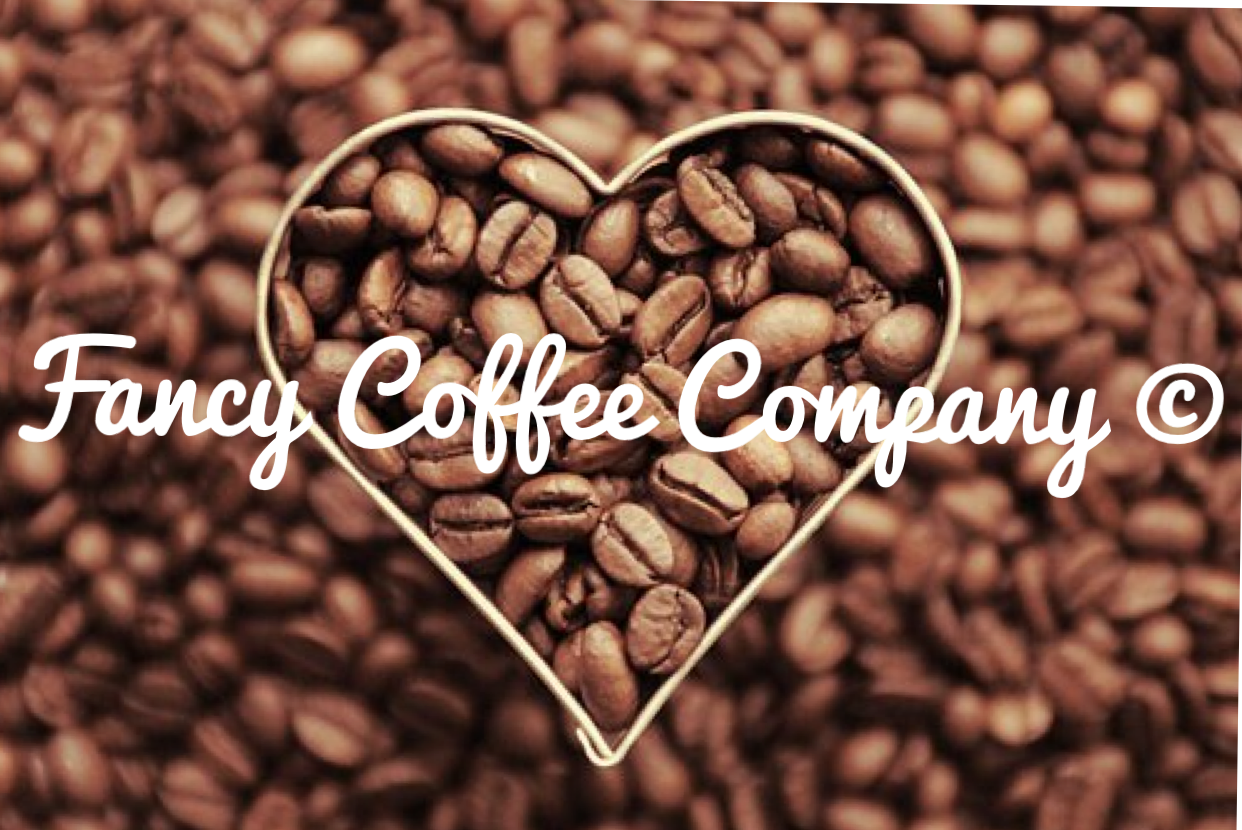
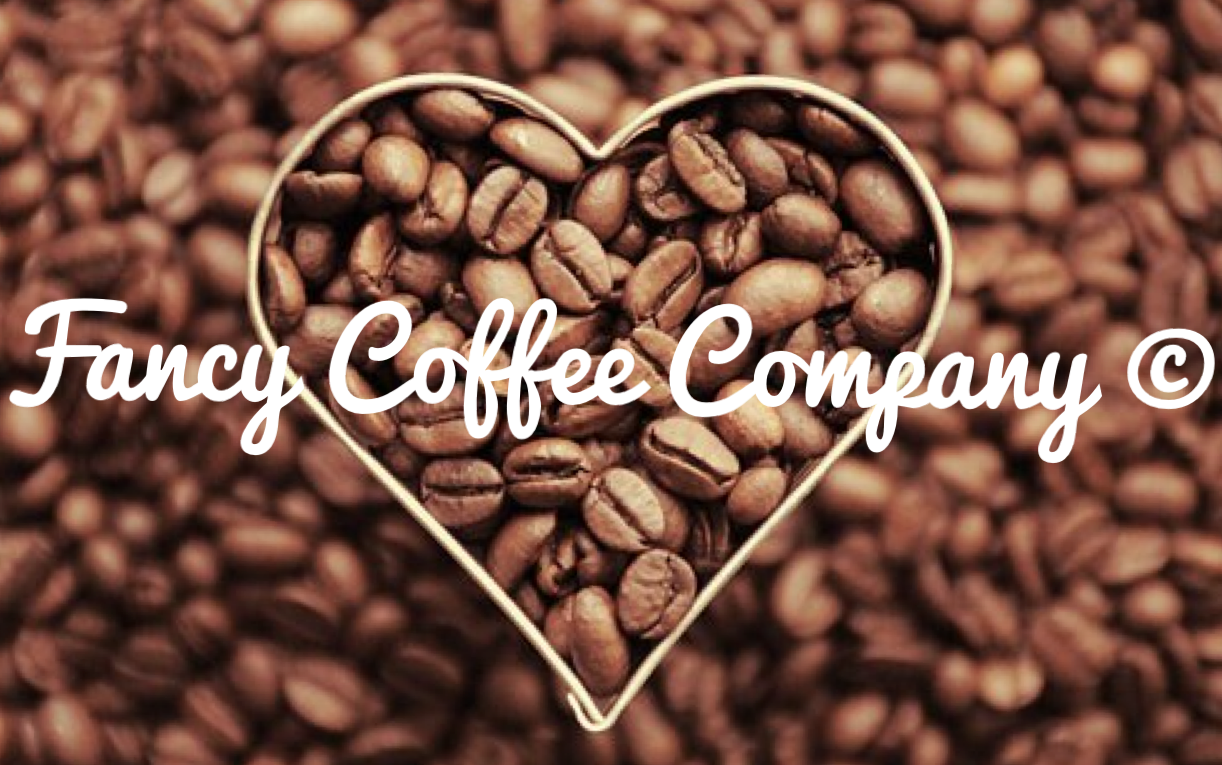
stylin-profilin-textilin

diff --git a/index.html b/index.html
@@ -10,17 +10,16 @@
 
 </head>
 <body>
-<section>
-    <div id="Nav" class="col-lg-12 ">
-        <nav class="pickNav navbar sticky-top navbar-dark  justify-content-center">
-            <a class=" NavPick navbar-brand" href="#">Pick a Coffee</a>
-        </nav>
-    </div>
-</section>
+
 <div id="container-coffee" class ="container">
-    <div class ="row">
-            <img class="img-fluid" src="fancycoffee.PNG" height="700" width="100%" >
-            <hr>
+    <div id="invis" class ="row">
+        <div id="Nav" class="col-lg-11 justify-content-center">
+            <nav class="pickNav navbar sticky-top navbar-dark mx-auto justify-content-center">
+                <a class=" navPick navbar-brand" href="#coffees"><span id="navText">Pick a Coffee</span></a>
+            </nav>
+        </div>
+        <div class=" col-lg-12">
+            <img class="headImg" src="fancycoffee.PNG"  alt="coffee">
         </div>
     </div>
     <div class="row" >
@@ -32,7 +31,6 @@
     <form>
         <label for="roast-selection"></label>
         <h5>Roast</h5>
-
         <select id="roast-selection" class="form-control form-control-sm">
             <option>light</option>
             <option>medium</option>
@@ -42,7 +40,6 @@
         <h5>Coffee name</h5>
         <input class="form-control" id="filterInput" type="text" placeholder="Search..">
         <br>
-<!--        <input class="form-control" id="submit" type="submit" placeholder="Search..">-->
     </form>
             <hr>
 
@@ -50,7 +47,6 @@
     <div>
         <div>
             <div>
-<!--                <div>ID</div>-->
             </div>
         </div>
         <h2>Add a Coffee</h2>
@@ -60,12 +56,11 @@
             <option value="medium">Medium</option>
             <option value="dark">Dark</option>
         </select>
-        <h5>Name</h5>
         <br>
+        <h5>Name</h5>
         <input class="form-control" id="addCoffee" type="text" placeholder="Search..">
         <br>
         <input class="form-control" id="submitNew" type="submit" placeholder="Search..">
-
 
     </div>
         </div>

diff --git a/style.css b/style.css
@@ -26,21 +26,15 @@ body{
 
 .coffee{
 
-
     padding: 10px;
     font-family: 'Special Elite', cursive;
     color:#c7ad9d;
 
 
 }
-#coffeeHeader{
-    background-image:url("fancycoffee.PNG");
-    height:750px;
 
-
-}
 #filterSearch{
-    color: #c7ad9d;
+    color: white;
     font-family: 'Special Elite', cursive;
 
 }
@@ -54,8 +48,40 @@ body{
     position:absolute;
 
 }
-.NavPick{
+
+#submitNew {
+    background-color: #c7ad9d;
+}
+
+#submitNew:hover {
+    background-color: tan;
+}
+#submitNew:active {
+    background-color: grey;
+}
+
+.navPick{
     color:white;
     font-family: 'Special Elite', cursive;
+
+}
+
+.headImg {
+    height: 650px;
+    width: 100%;
+    border: solid grey 5px;
+    border-radius: 50%;
+}
+
+#navText {
+    font-size: 1.9em;
+    font-weight: bold;
+}
+
+#navText:hover {
+    color: #c7ad9d;
+}
+#navText:active {
+    color: grey;
 
 }

diff --git a/main.js b/main.js
@@ -106,6 +106,12 @@ function addToCoffees(e) {
 
 userSubmit.addEventListener('click', addToCoffees);
 
+var invis = document.getElementById("invis");
+
+invis.addEventListener('click', function(){
+    invis.style.display = "none";
+    }
+);
 // function roastType(roast) {
 //     coffees.forEach(function (coffee) {
 //         if (roast === coffee.roast) {
